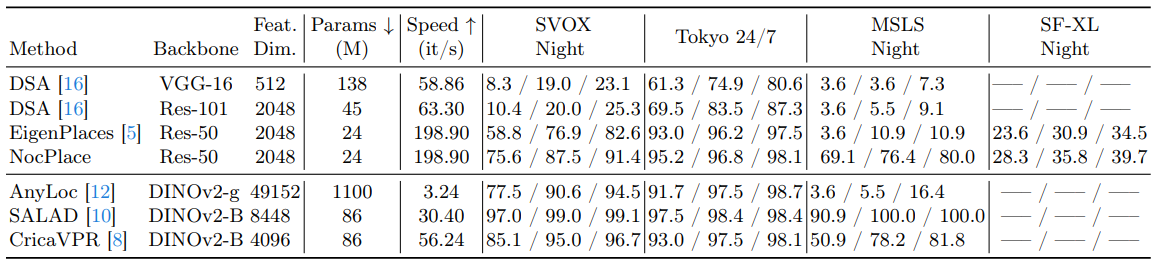
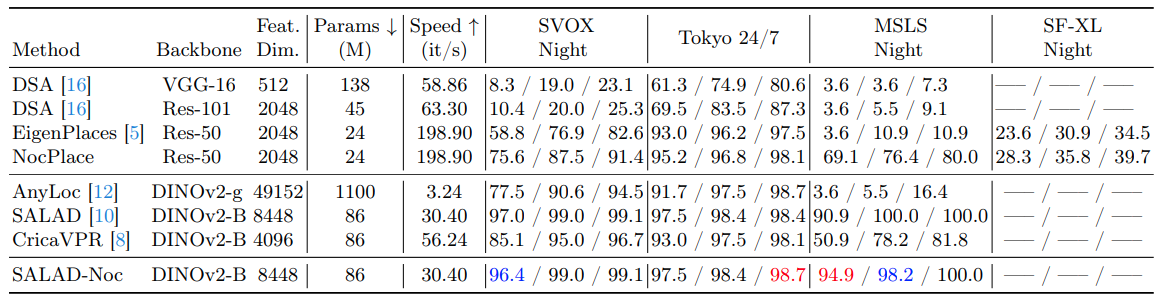
SALAD-Noc

diff --git a/train.py b/train.py
@@ -44,11 +44,11 @@ if args.resume_model is not None:
 
 model = model.to(args.device).train()
 
-# if args.use_ikt:
-#     train_ds = InheritDataset(args.train_set_folder, image_size=args.image_size, resize_test_imgs=args.resize_test_imgs)
-#     tests.inherit(args, train_ds, model)
+if args.use_ikt:
+    train_ds = InheritDataset(args.train_set_folder, image_size=args.image_size, resize_test_imgs=args.resize_test_imgs)
+    tests.inherit(args, train_ds, model)
 
-#     del train_ds
+    del train_ds
 
 #### Optimizer
 criterion = torch.nn.CrossEntropyLoss()
@@ -82,11 +82,11 @@ if args.resume_train:
 else:
     best_val_recall1 = start_epoch_num = 0
 
-# if args.use_ikt:
-#     recalls, recalls_str = tests.test(args, val_ds, model, is_training=True)
-#     logging.info(f"{val_ds}: {recalls_str}")
-#     is_best = recalls[0] > best_val_recall1
-#     best_val_recall1 = max(recalls[0], best_val_recall1)
+if args.use_ikt:
+    recalls, recalls_str = tests.test(args, val_ds, model, is_training=True)
+    logging.info(f"{val_ds}: {recalls_str}")
+    is_best = recalls[0] > best_val_recall1
+    best_val_recall1 = max(recalls[0], best_val_recall1)
 
 #### Train / evaluation loop
 logging.info("Start training ...")

diff --git a/nocplace_model/vit_network.py b/nocplace_model/vit_network.py
@@ -1,5 +1,6 @@
 import torch
 from torch import nn
+import torchvision.transforms as transforms
 
 from nocplace_model.layers import Flatten, L2Norm, GeM
 import nocplace_model.salad_layer as Salad
@@ -55,6 +56,24 @@ class GeoLocalizationNet(nn.Module):
         self.aggregator = Salad.SALAD()
     
     def forward(self, x):
+        x = self.backbone(x)
+        x = self.aggregator(x)
+        return x
+    
+class GLNetWrapper(torch.nn.Module):
+    def __init__(self, backbone : str):
+        super().__init__()
+        self.backbone = DINOv2(backbone = backbone)
+        self.channels_num = CHANNELS_NUM[backbone]
+        self.aggregator = Salad.SALAD()
+
+    def forward(self, x):
+        b, c, h, w = x.shape
+        # DINO wants height and width as multiple of 14, therefore resize them
+        # to the nearest multiple of 14
+        h = round(h / 14) * 14
+        w = round(w / 14) * 14
+        x = transforms.functional.resize(x, [h, w], antialias=True)
         x = self.backbone(x)
         x = self.aggregator(x)
         return x

diff --git a/eval.py b/eval.py
@@ -7,7 +7,7 @@ from datetime import datetime
 import utils.tests as tests
 import utils.parser as parser
 import utils.commons as commons
-from nocplace_model import cosplace_network
+from nocplace_model import cosplace_network, vit_network
 from datasets.test_dataset import TestDataset
 from datasets.inherit_dataset import InheritDataset
 
@@ -23,7 +23,8 @@ logging.info(f"Arguments: {args}")
 logging.info(f"The outputs are being saved in {args.output_folder}")
 
 #### Model
-model = cosplace_network.GeoLocalizationNet(args.backbone, args.fc_output_dim)
+# model = cosplace_network.GeoLocalizationNet(args.backbone, args.fc_output_dim)
+model = vit_network.GLNetWrapper(args.backbone)
 
 logging.info(f"There are {torch.cuda.device_count()} GPUs and {multiprocessing.cpu_count()} CPUs.")
 
